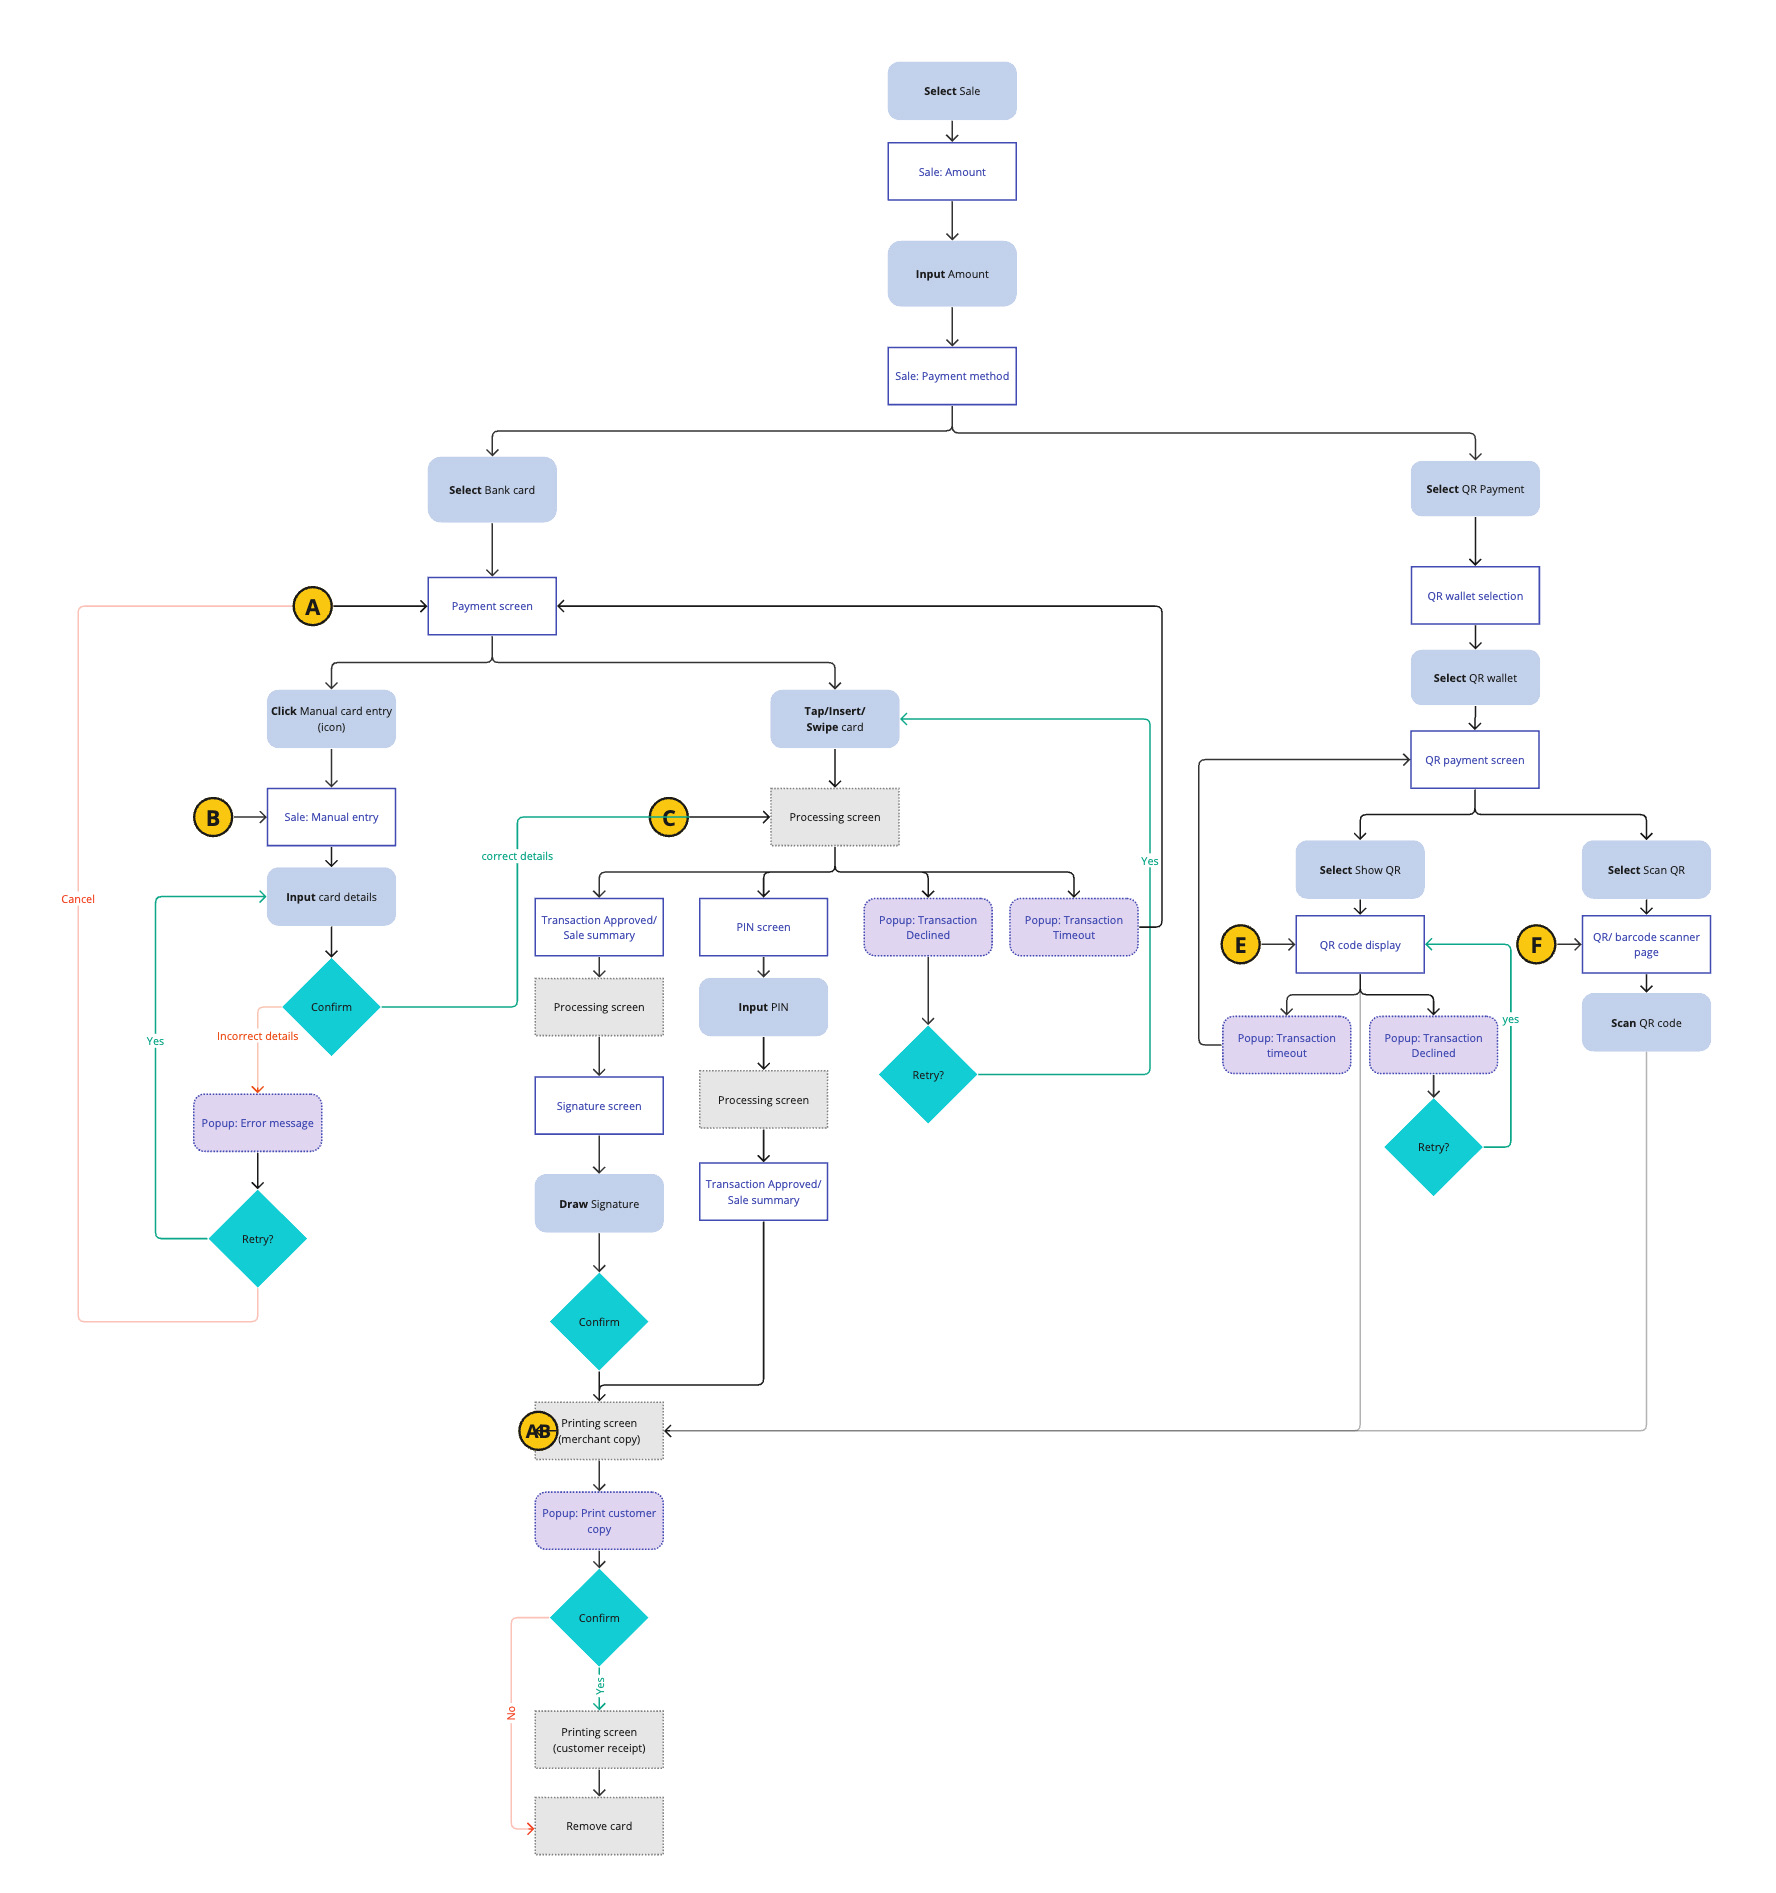
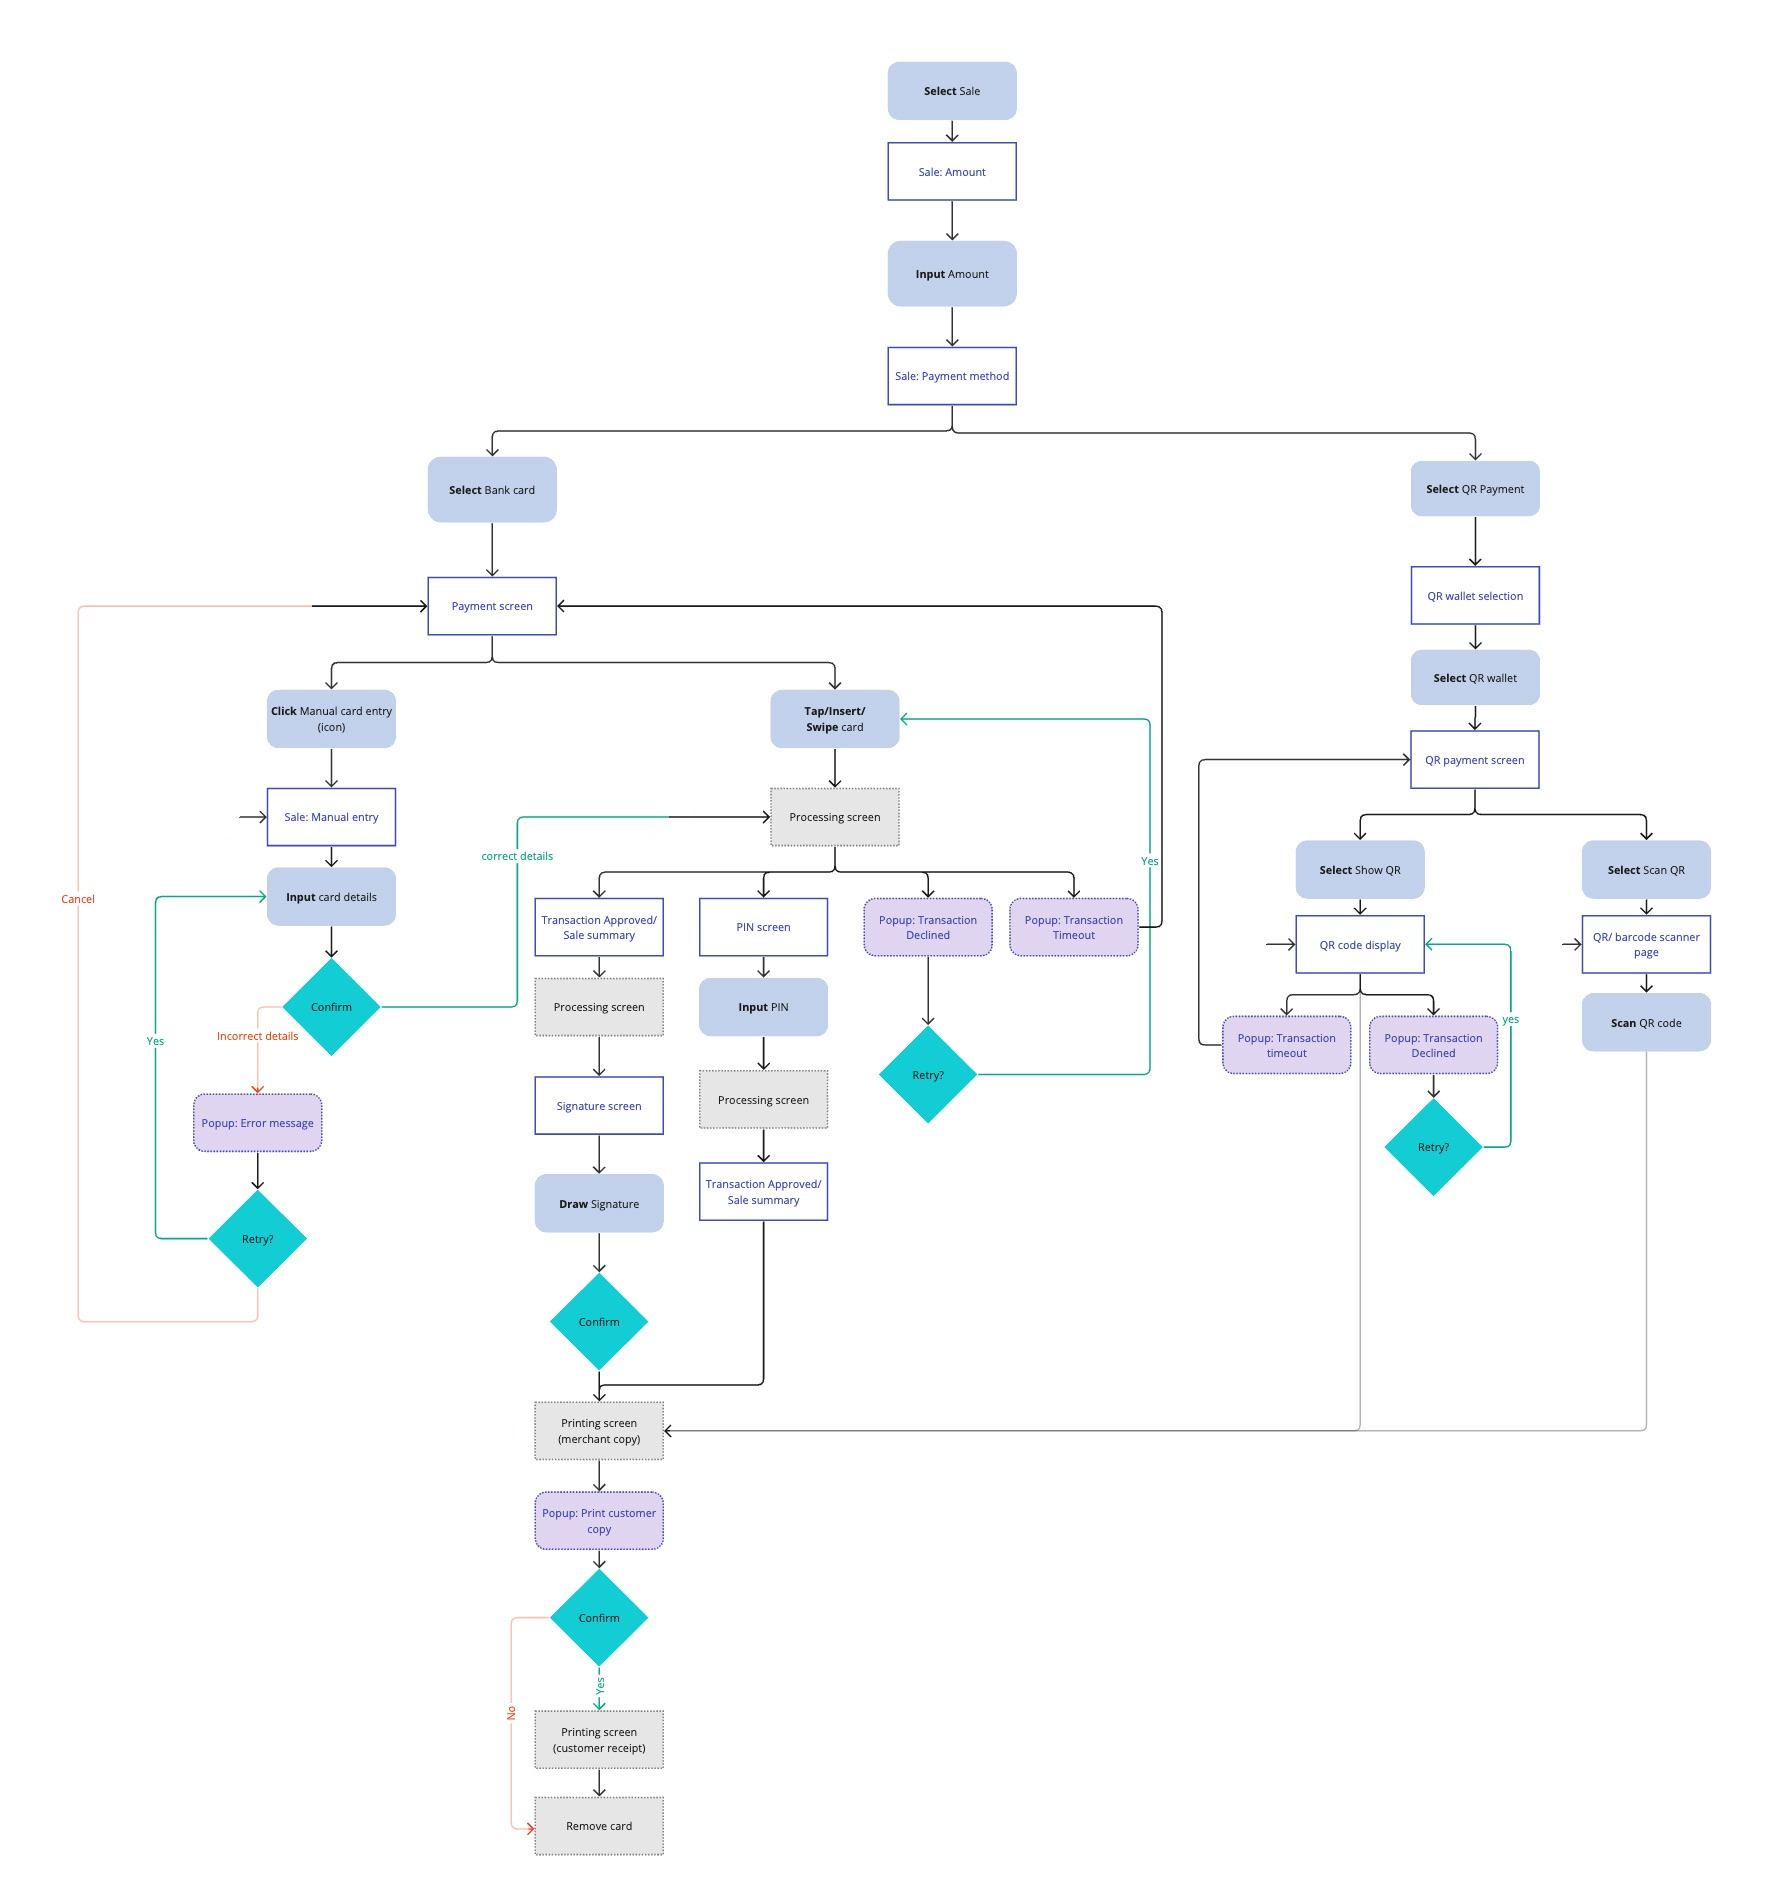
Ingenico: tidy user flow images and design section headings
Remove the yellow connector letters from the flow diagrams, size the
installment and settlement flows to match the sales flow, move the
installment flow into its own section, and promote the design
subsections to h2 in place of the 'Crafting the designs' intro.

diff --git a/case-studies/ingenico.html b/case-studies/ingenico.html
@@ -85,6 +85,7 @@
     <p>Next, the user is presented with the option to <strong>select a payment term</strong>. This can be done by selecting from a list of <strong>predefined choices</strong> (eg. 3 months, 6 months, 12 months). We also provided users with the flexibility to <strong>manually input their preferred payment term</strong>.</p>
     <p>Following the selection of the payment term, users are prompted to <strong>enter the payment amount</strong>. The system then automatically divides this amount by the chosen payment term to calculate the installment amounts.</p>
     <p>The remaining steps of the process follow the standard credit card sales flow.</p>
+    <div class="cs-img narrow" style="max-width:195px"><img src="../assets/img/ingenico/flow-installment.jpg" alt="Installment user flow: promotion, payment term, amount, then the card sales flow" loading="lazy"></div>
 
     <h3>Settlement: Completing the financial transaction</h3>
     <p>Typically, settlements are processed in separate batches by each host at the end of the day. Following discussions with stakeholders, I devised two distinct flows to streamline the settlement process.</p>
@@ -93,16 +94,7 @@
       <li>The second option, known as "Settle by Host", provides users with the flexibility to <strong>settle transactions based on the acquiring bank</strong> associated with each transaction.</li>
     </ul>
     <p>Once users have confirmed their chosen batches for settlement, the system initiates the processing, allowing users to monitor the progress until the settlement is complete and results are available. In the event of any transaction failing to settle, users are given the option to initiate a retry.</p>
-    <div class="cs-img two">
-      <figure class="cs-shot">
-        <img src="../assets/img/ingenico/flow-installment.jpg" alt="Installment user flow: promotion, payment term, amount, then the card sales flow" loading="lazy">
-        <figcaption>Installment flow</figcaption>
-      </figure>
-      <figure class="cs-shot">
-        <img src="../assets/img/ingenico/flow-settlement.jpg" alt="Settlement user flow: Settle All or Settle by Host, processing, results and retry" loading="lazy">
-        <figcaption>Settlement flow</figcaption>
-      </figure>
-    </div>
+    <div class="cs-img narrow" style="max-width:217px"><img src="../assets/img/ingenico/flow-settlement.jpg" alt="Settlement user flow: Settle All or Settle by Host, processing, results and retry" loading="lazy"></div>
   </section>
 
   <section class="cs-section">
@@ -111,12 +103,9 @@
     <div class="cs-img"><img src="../assets/img/ingenico/sitemap.jpg" alt="App sitemap derived from the user flows" loading="lazy"></div>
   </section>
 
-  <section class="cs-section">
+  <section class="cs-section multi">
     <span class="yr">Starting the design</span>
-    <h2>Crafting the designs</h2>
-    <p>After getting the green light from the stakeholders on the user flow and sitemap, I started working on the design. Here are some of the lofi and hifi designs.</p>
-
-    <h3>The login screens</h3>
+    <h2>The login screens</h2>
     <p>As the only users with login access to the app would be pre-determined by the merchant (cashiers and managers), I implemented a <strong>dropdown selection</strong> that presents users with pre-defined user IDs to simplify the login process, <strong>eliminating the need for users to manually input their user ID each time</strong>.</p>
     <div class="cs-phones">
       <figure class="cs-shot">
@@ -135,7 +124,7 @@
       </figure>
     </div>
 
-    <h3>Designing for different market specifications</h3>
+    <h2>Designing for different market specifications</h2>
     <p>In markets like <strong>the Philippines and Vietnam</strong>, where larger amounts are common, I created two input field versions and keypads. One allowed up to 8-10 digits with a <strong>'000' button</strong> for cashier convenience.</p>
     <p class="cs-aside">Following stakeholder feedback for more digits and a '00' button, we adjusted the input field's font size in the hifi stage, and added an extra keypad screen. We also included a currency dropdown for user flexibility.</p>
     <div class="cs-phones">
@@ -155,7 +144,7 @@
       </figure>
     </div>
 
-    <h3>QR wallet payments</h3>
+    <h2>QR wallet payments</h2>
     <p>For QR payments, I designed a <strong>toggle</strong> switch to allow users to easily switch between <strong>"View QR"</strong> which displays a QR code on the Android device, or <strong>"Scan QR"</strong>, where customers can scan a QR code from their own device.</p>
     <div class="cs-phones">
       <figure class="cs-shot">
@@ -174,7 +163,7 @@
       </figure>
     </div>
 
-    <h3>Settlement - Settle All vs Settle by Host</h3>
+    <h2>Settlement - Settle All vs Settle by Host</h2>
     <p>As users can settle transactions individually or in batches by host, I initially designed two screens. In the "Settle by Host" wireframe, I designed for the <strong>selection of multiple hosts.</strong></p>
     <p class="cs-aside">Later on during the hifi phase, we recognised that even if users choose to "Select by Host", they may sometimes choose to Select All, then manually de-select specific items. We enhanced the design by adding a 'Settle All' checkbox to the "Settle by Host" screen to streamline this process.</p>
     <div class="cs-phones">
@@ -194,7 +183,7 @@
       </figure>
     </div>
 
-    <h3>Viewing previous transactions</h3>
+    <h2>Viewing previous transactions</h2>
     <p>Another important function of the app was to allow users to view previous transactions. I designed a <strong>transaction history page</strong> with a <strong>search bar</strong> to locate transactions by Invoice number or amount. I also included <strong>filters for Transaction Type, Host, and Payment Method</strong> to make it easier for users to find the transaction they need. Additionally, I added <strong>category tags</strong> for each transaction, improving visual clarity and making it <strong>easier for the user to scan</strong> the list.</p>
     <div class="cs-phones">
       <figure class="cs-shot">

diff --git a/assets/css/editorial.css b/assets/css/editorial.css
@@ -112,3 +112,6 @@ body.ed{
   .ed-next a{ font-size:17px; }
   .ed-foot .ed-bar{ padding:20px 16px 40px; }
 }
+
+/* a section split into several h2-level parts (e.g. Ingenico's design walkthrough) */
+.ed .cs-section.multi > h2:not(:first-of-type){ margin-top:64px; }
